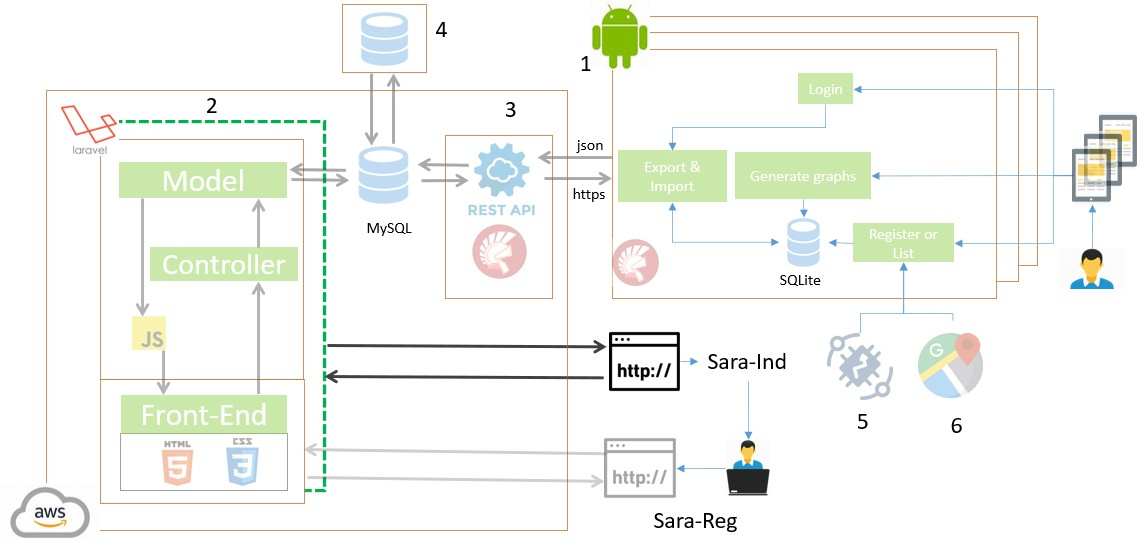
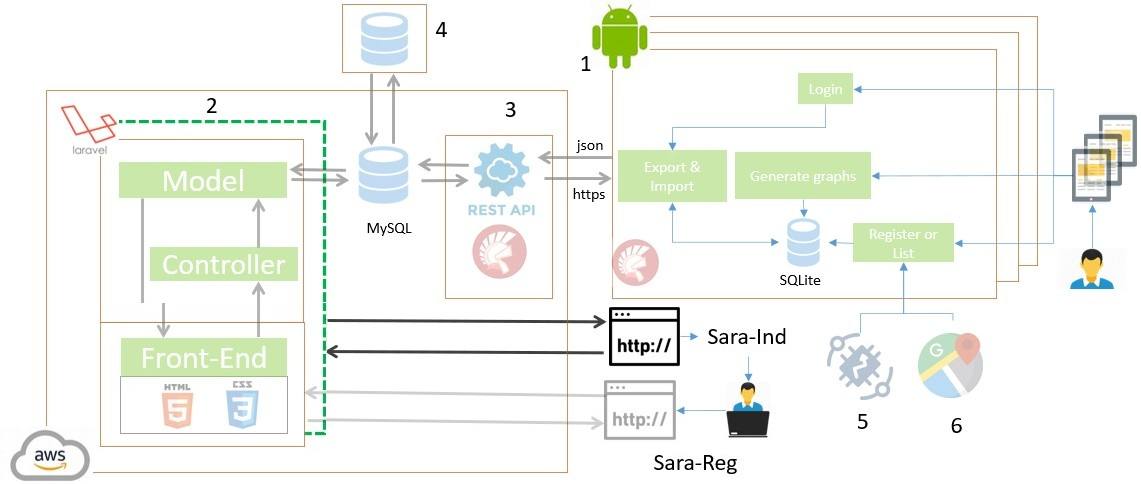
Improve the summaries

diff --git a/View/vstActiv.php b/View/vstActiv.php
@@ -1,6 +1,6 @@
 <html lang="es"><head><meta charset="UTF-8">
 <title>SARA - Ind. Consolidado</title>
-<link rel="stylesheet" href="../back/estilos.css">
+<link rel="stylesheet" href="../functions/estilos.css">
 </head><body><a href="../principal.php">Principal</a></li>
 <h2>Ind. Consolidado</h2><?php
 require_once "../functions/filtro.php"; 
@@ -12,7 +12,7 @@ $datos = consultarProyectosxMes($fchInc, $fchFin, $iddpt, $idmnc, $pgn);
 // cabecera de la tabla
 //$headers = ["#", "Mes", "Depart.", "Municipio", "Junta", "Id", "Proyecto", "$ Ej.", "$ Prs.", "-", "Pers. Ej.", "Pers. Prs.", "-", "Horas Ej.", "Horas Prs.", "-", "Activ. Ej.", "Activ. Prs.", "-"];
 $headers = ["#", "Month", "Super.", "System", "Community", "Id", "Project", "$ Exec.", "$ Plan.", "-", "Part. Exec.", "Part. Plan.", "-", "Hours Exec.", "Hours Plan.", "-", "Activ. Exec.", "Activ. Plan.", "-"];
-echo 'Ind. por Mes<br><br><table><tr>';
+echo 'Ind. según Metas<br><br><table><tr>';
 foreach($headers as $h){ 
     echo '<th>'.$h.'</th>';
 } 
@@ -79,20 +79,18 @@ if ($resultado) {
 }
 //$headers = ["#", "Año", "Depart.", "Municipio", "Vereda", "Cnt. Pry.", "Proyectos", "-", "Dinero", "-", "Benef.", "-", "Horas", "-", "Activ.", "-"];
 $headers = ["#", "Year", "Super.", "System", "Community", "Cnt. Prj.", "Projects", "-", "Budget", "-", "Partic.", "-", "Hours", "-", "Activ.", "-"];
-echo '<br>Ind. por Año<br><br><table style="padding:0px !important; margin:0px !important; line-height:1 !important;"><tr>';
+echo '<br>Ind. según listado<br><br><table style="padding:0px !important; margin:0px !important; line-height:1 !important;"><tr>';
 foreach($headers as $h){ 
     echo '<th>'.$h.'</th>';
 } 
 $contFil = 1;
 if ($resultado) {
 while ($row = $resultado->fetch_assoc()):
-
     $a0 = $maxProy > 0 ? intval(($row['total_proyectos'] / $maxProy) * 100) : 0;
     $aa = $maxAct > 0 ? intval(($row['total_actividades'] / $maxAct) * 100) : 0;
     $a1 = $maxMon > 0 ? intval(($row['monto'] / $maxMon) * 100) : 0;
     $a2 = $maxHor > 0 ? intval(($row['total_horas'] / $maxHor) * 100) : 0;
     $a3 = $maxBen > 0 ? intval(($row['beneficiarios'] / $maxBen) * 100) : 0;
-
     echo "<tr>
         <td>$contFil</td>
         <td>{$row['anio']}</td>        
@@ -102,21 +100,16 @@ while ($row = $resultado->fetch_assoc()):
         <td align='right'>{$row['total_proyectos']}</td>
         <td>{$row['proyectos_fechas']}</td>
         <td><img src='../img/barra.png' height='16' width='$a0'>&nbsp;{$a0}%</td>
-
         <td align='right'>" . number_format($row['monto']) . "</td>
         <td><img src='../img/barra.png' height='16' width='$a1'>&nbsp;{$a1}%</td>
-
         <td align='right'>{$row['beneficiarios']}</td>
         <td><img src='../img/barra.png' height='16' width='$a3'>&nbsp;{$a3}%</td>
-
         <td align='right'>{$row['total_horas']}</td>
         <td><img src='../img/barra.png' height='16' width='$a2'>&nbsp;{$a2}%</td>
         <td align='right'>{$row['total_actividades']}</td>
         <td><img src='../img/barra.png' height='16' width={$aa}>&nbsp;{$aa}%</td>
     </tr>";
-
     $contFil++;
-
 endwhile;
 }
 ?>
@@ -146,46 +139,216 @@ foreach($headers as $h){
 } 
 
 $fila = 1;
-foreach ($datos as $d) {
-    // porcentajes
-    $pProy = $maxProy ? ($d['proyectos'] * 100) / $maxProy : 0;
-    $pMonto = $maxMonto ? ($d['monto'] * 100) / $maxMonto : 0;
-    $pBenef = $maxBenef ? ($d['beneficiarios'] * 100) / $maxBenef : 0;
-    $pHoras = $maxHoras ? ($d['total_horas'] * 100) / $maxHoras : 0;
-    $pAct = $maxAct ? ($d['total_actividades'] * 100) / $maxAct : 0;
 
-    $pProy = round($pProy);
-    $pMonto = round($pMonto);
-    $pBenef = round($pBenef);
-    $pHoras = round($pHoras);
-    $pAct = round($pAct);
-    
+// =====================================================
+// 1. CALCULAR MAXIMOS POR SUPER
+// =====================================================
+
+$maximos = [];
+
+foreach ($datos as $d) {
+
+    $sup = $d['departamento'];
+
+    if (!isset($maximos[$sup])) {
+
+        $maximos[$sup] = [
+            'proyectos' => 0,
+            'monto' => 0,
+            'beneficiarios' => 0,
+            'horas' => 0,
+            'actividades' => 0
+        ];
+    }
+
+    $maximos[$sup]['proyectos'] =
+        max($maximos[$sup]['proyectos'], $d['proyectos']);
+
+    $maximos[$sup]['monto'] =
+        max($maximos[$sup]['monto'], $d['monto']);
+
+    $maximos[$sup]['beneficiarios'] =
+        max($maximos[$sup]['beneficiarios'], $d['beneficiarios']);
+
+    $maximos[$sup]['horas'] =
+        max($maximos[$sup]['horas'], $d['total_horas']);
+
+    $maximos[$sup]['actividades'] =
+        max($maximos[$sup]['actividades'], $d['total_actividades']);
+}
+
+// =====================================================
+// 2. RECORRER DATOS
+// =====================================================
+
+$depActual = '';
+
+foreach ($datos as $d) {
+
+    $sup = $d['departamento'];
+
+    // =================================================
+    // CAMBIO DE SUPER
+    // =================================================
+
+    if ($depActual != '' && $depActual != $sup) {
+
+        $m = $maximos[$depActual];
+
+        echo "
+        <tr style='background:#d9edf7;font-weight:bold;'>
+
+            <td colspan='4' align='right'>
+                MAX $depActual
+            </td>
+
+            <td align='right'>{$m['proyectos']}</td>
+            <td></td>
+            <td></td>
+
+            <td align='right'>" .
+                number_format($m['monto'],0,',','.') .
+            "</td>
+            <td></td>
+
+            <td align='right'>{$m['beneficiarios']}</td>
+            <td></td>
+
+            <td align='right'>{$m['horas']}</td>
+            <td></td>
+
+            <td align='right'>{$m['actividades']}</td>
+            <td></td>
+
+        </tr>";
+    }
+
+    $depActual = $sup;
+
+    // =================================================
+    // MAXIMOS DEL SUPER ACTUAL
+    // =================================================
+
+    $maxProy  = $maximos[$sup]['proyectos'];
+    $maxMonto = $maximos[$sup]['monto'];
+    $maxBenef = $maximos[$sup]['beneficiarios'];
+    $maxHoras = $maximos[$sup]['horas'];
+    $maxAct   = $maximos[$sup]['actividades'];
+
+    // =================================================
+    // PORCENTAJES
+    // =================================================
+
+    $pProy  = $maxProy  ? round(($d['proyectos'] * 100) / $maxProy) : 0;
+    $pMonto = $maxMonto ? round(($d['monto'] * 100) / $maxMonto) : 0;
+    $pBenef = $maxBenef ? round(($d['beneficiarios'] * 100) / $maxBenef) : 0;
+    $pHoras = $maxHoras ? round(($d['total_horas'] * 100) / $maxHoras) : 0;
+    $pAct   = $maxAct   ? round(($d['total_actividades'] * 100) / $maxAct) : 0;
+
+    // =================================================
+    // FILA NORMAL
+    // =================================================
+
     echo "<tr>
+
         <td>$fila</td>
+
         <td>{$d['departamento']}</td>
+
         <td>{$d['municipio']}</td>
+
         <td>{$d['junta']}</td>
+
         <td align='right'>{$d['proyectos']}</td>
+
         <td>{$d['proyectos_fechas']}</td>
-        
-        <td><img src='../img/barra.png' height='16' width={$pProy}>&nbsp;{$pProy}%</td>
+
+        <td>
+            <img src='../img/barra.png'
+                 height='16'
+                 width='{$pProy}'>
+            &nbsp;{$pProy}%
         </td>
-        <td align='right'>" . number_format($d['monto'], 0, ',', '.') . "</td>
-        <td><img src='../img/barra.png' height='16' width={$pMonto}>&nbsp;{$pMonto}%</td>
+
+        <td align='right'>" .
+            number_format($d['monto'],0,',','.') .
+        "</td>
+
+        <td>
+            <img src='../img/barra.png'
+                 height='16'
+                 width='{$pMonto}'>
+            &nbsp;{$pMonto}%
         </td>
+
         <td align='right'>{$d['beneficiarios']}</td>
-        <td><img src='../img/barra.png' height='16' width={$pBenef}>&nbsp;{$pBenef}%</td>
-    
+
+        <td>
+            <img src='../img/barra.png'
+                 height='16'
+                 width='{$pBenef}'>
+            &nbsp;{$pBenef}%
+        </td>
+
         <td align='right'>{$d['total_horas']}</td>
-        <td><img src='../img/barra.png' height='16' width={$pHoras}>&nbsp;{$pHoras}%</td>
+
+        <td>
+            <img src='../img/barra.png'
+                 height='16'
+                 width='{$pHoras}'>
+            &nbsp;{$pHoras}%
+        </td>
+
         <td align='right'>{$d['total_actividades']}</td>
-        <td><img src='../img/barra.png' height='16' width={$pAct}>&nbsp;{$pAct}%</td>";
-        echo '</td>';
-        
-    echo '</tr>';
+
+        <td>
+            <img src='../img/barra.png'
+                 height='16'
+                 width='{$pAct}'>
+            &nbsp;{$pAct}%
+        </td>
+
+    </tr>";
 
     $fila++;
 }
+
+// =====================================================
+// ULTIMO SUPER
+// =====================================================
+
+if ($depActual != '') {
+
+    $m = $maximos[$depActual];
+
+    echo "
+    <tr style='background:#d9edf7;font-weight:bold;'>
+
+        <td colspan='4' align='right'>
+            MAX $depActual
+        </td>
+
+        <td align='right'>{$m['proyectos']}</td>
+        <td></td>
+        <td></td>
+
+        <td align='right'>" .
+            number_format($m['monto'],0,',','.') .
+        "</td>
+        <td></td>
+
+        <td align='right'>{$m['beneficiarios']}</td>
+        <td></td>
+
+        <td align='right'>{$m['horas']}</td>
+        <td></td>
+
+        <td align='right'>{$m['actividades']}</td>
+        <td></td>
+
+    </tr>";
+}
 ?>
+
 
 </table>

diff --git a/Controller/indInterGnrl.php b/Controller/indInterGnrl.php
@@ -8,7 +8,7 @@ if (!isset($_SESSION["usuario"])) {
 ?>
 <html lang="es"><head>
 <meta charset="UTF-8"><title>SARA - Ind. de Intervención General</title>
-<link rel="stylesheet" href="../back/estilos.css">
+<link rel="stylesheet" href="../functions/estilos.css">
 </head><body>
 <a href="../principal.php">Principal</a></li>
 <h2>Ind. General de Intervención</h2>

diff --git a/docs/admin/indInterGnrl.md b/docs/admin/indInterGnrl.md
@@ -1,3 +1,15 @@
+muchas gracias doctor XXX
+he aprovechado para mejorar la herramienta y el documento
+ahora tiene un generico, así es de mayor interes para los lectores
+
+la bd habla de comunidades y no de juntas, esto junto con las tablas que la describen, ademas su estructura está en ingles
+por tanto se cambió el codigo de los cinco indicadores y por sugerencia del ente territorial.
+
+deje solo las figuras mas importantes
+los filtros ahora si son una funcion que se invoca
+se eliminó el javascript para que sea mas facil de replicar
+actualicé el documento tecnico y el video, despues del min XXXX auqnue por supuesto ahora es otro
+
 # General Intervention Indicator
 
 The General Intervention Indicator (GII) is defined as a synthetic indicator that summarizes the overall performance of the intervention in a community. It is the most important indicator and integrates the different normalized indicators through a weighted linear combination calculated for each community. It is computed using the following expression:
